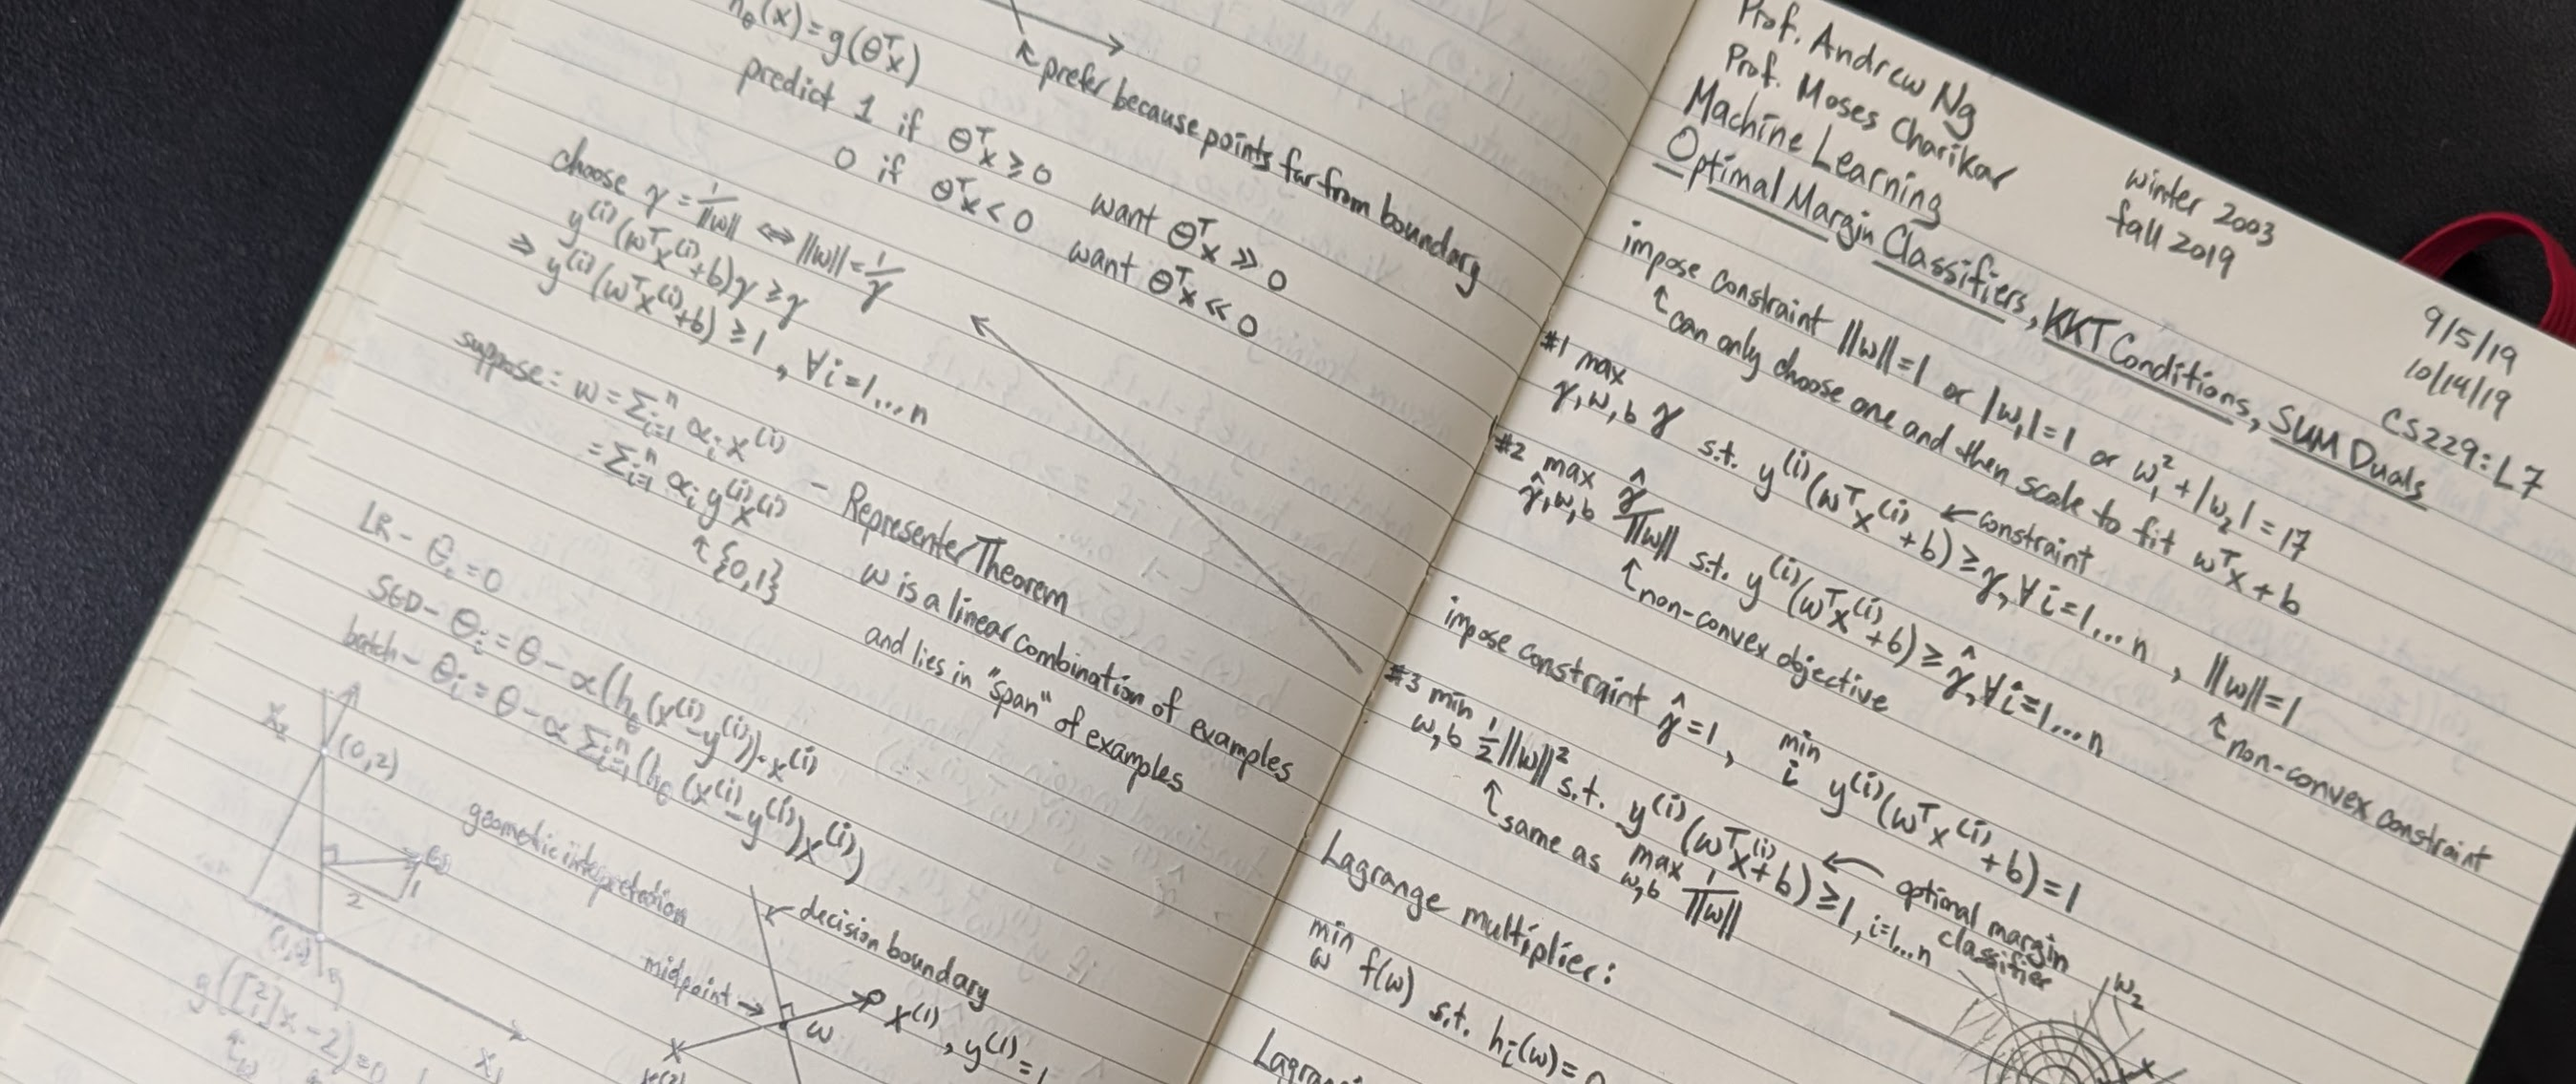
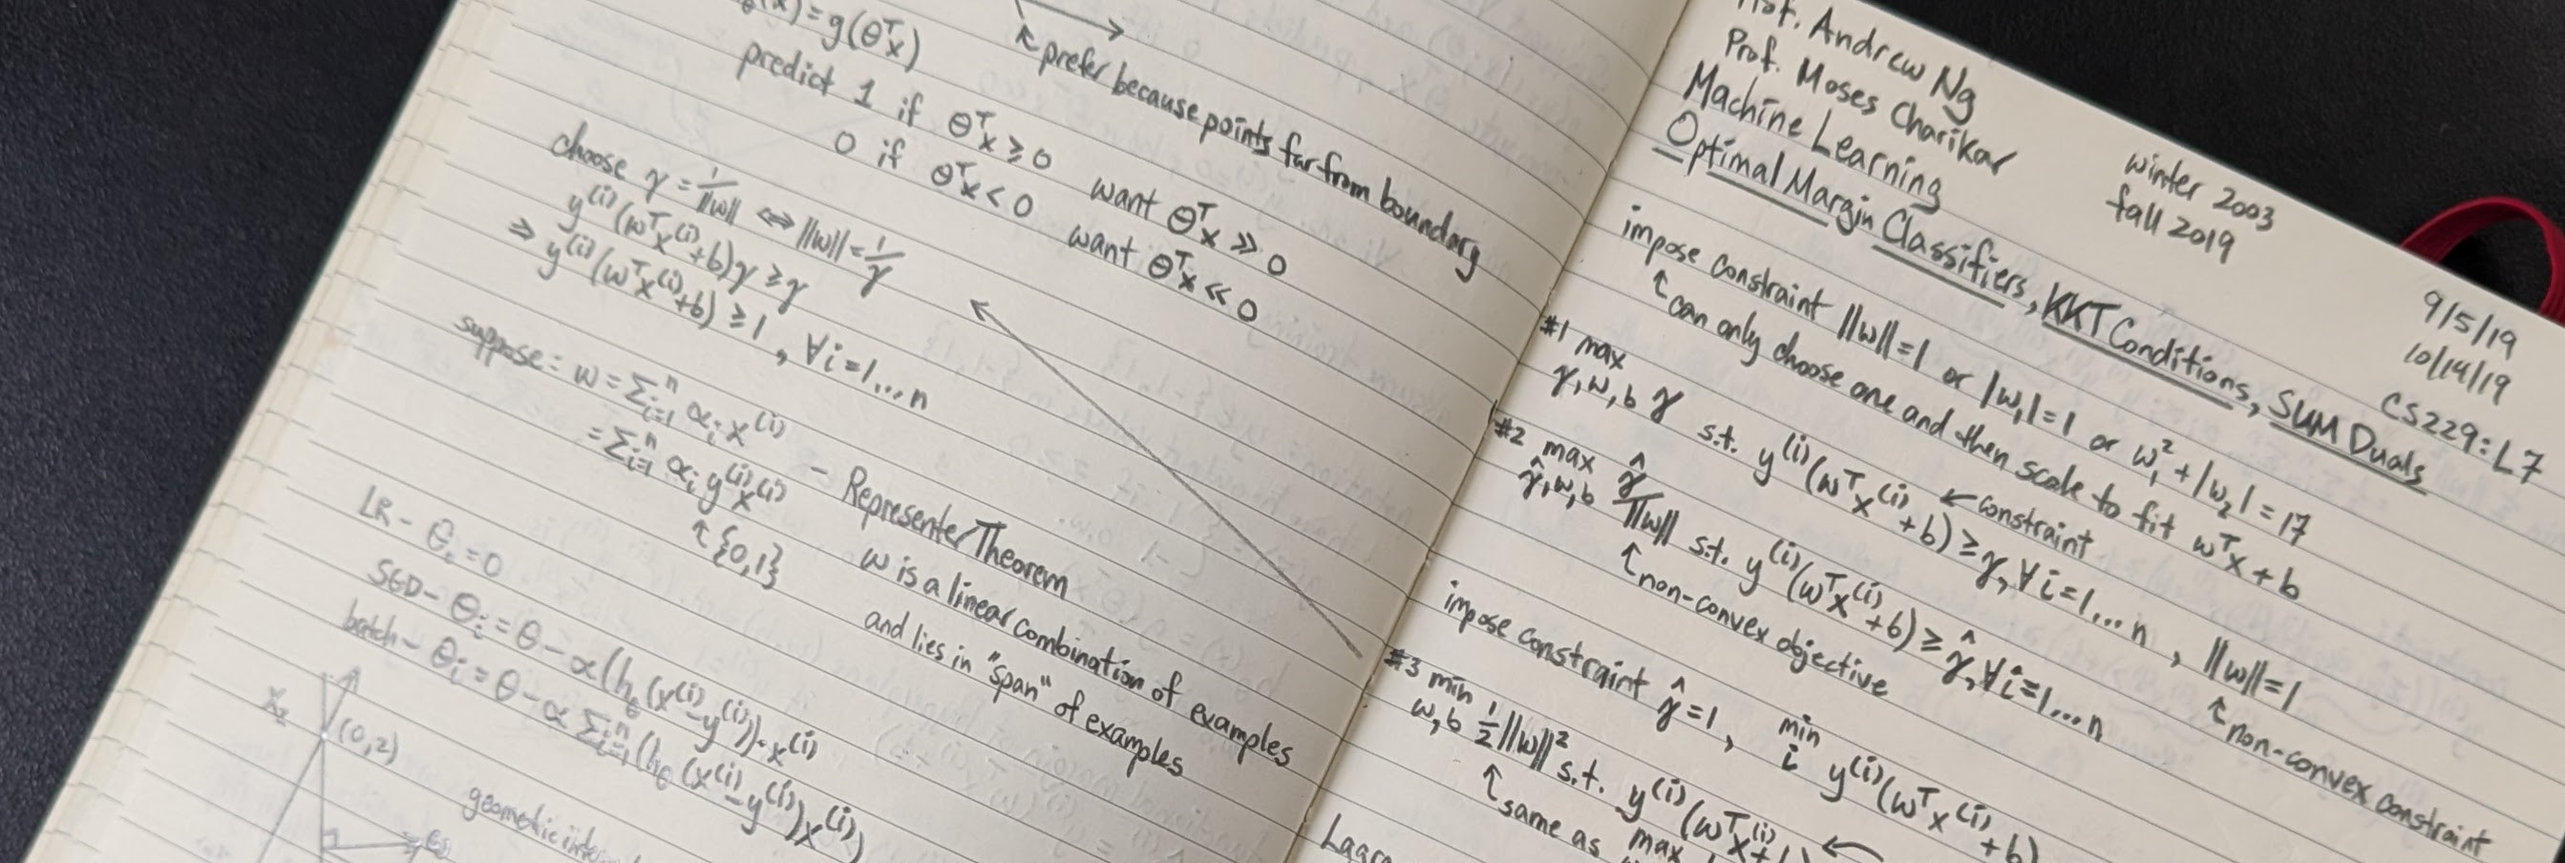
changed header image from cover to contain
cropped header image to be shorter, keeping the width, and changed main.scss to use `contain` as opposed to `cover` so that the image isn't zoomed in.

diff --git a/assets/css/main.scss b/assets/css/main.scss
@@ -21,7 +21,8 @@
 /* Override header background with image */
 .page__hero--overlay {
   background: linear-gradient(rgba(0, 0, 0, 0.3), rgba(0, 0, 0, 0.3)), 
-              url('/assets/images/cs229-notebook-header.jpg') center top/cover no-repeat !important;
+              url('/assets/images/cs229-notebook-header.jpg') center top/contain no-repeat !important;
+  background-color: #24292e !important; /* Grey background for any empty space */
   min-height: 150px;
 }
 
